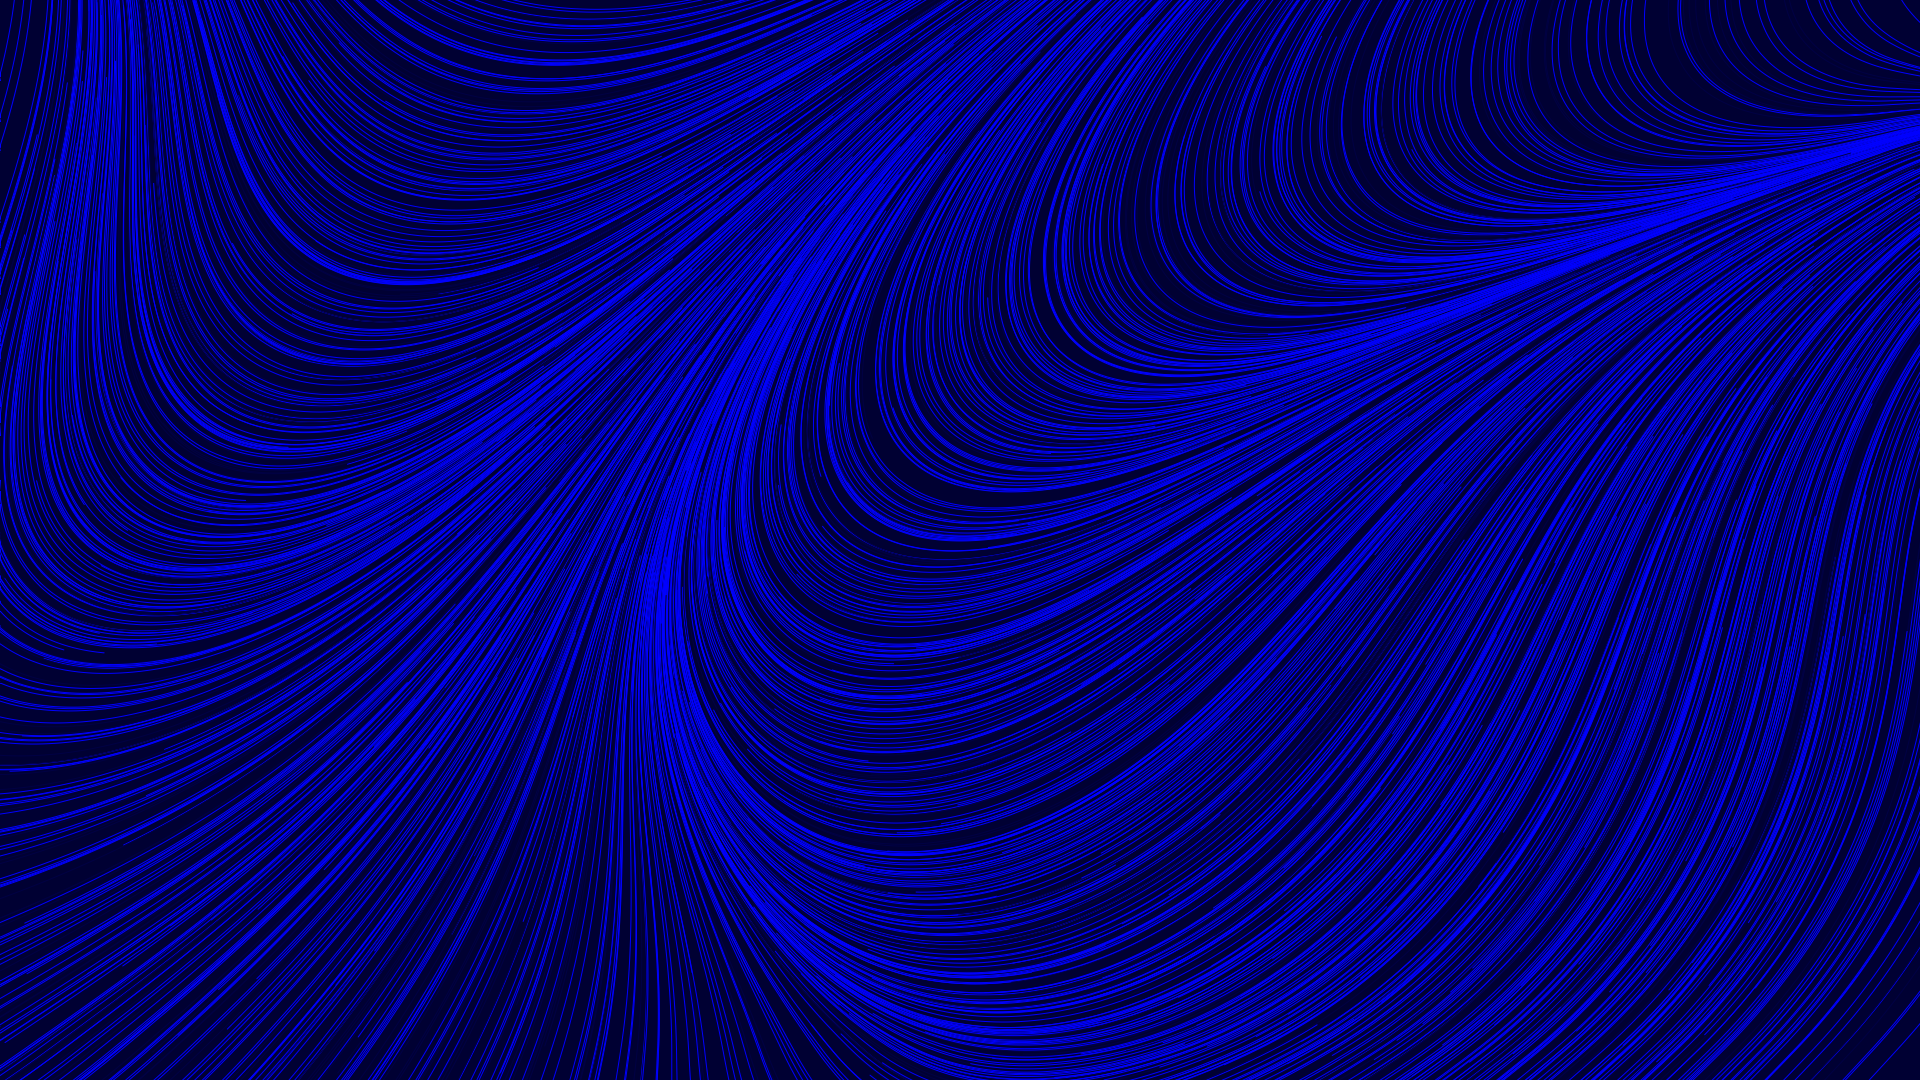
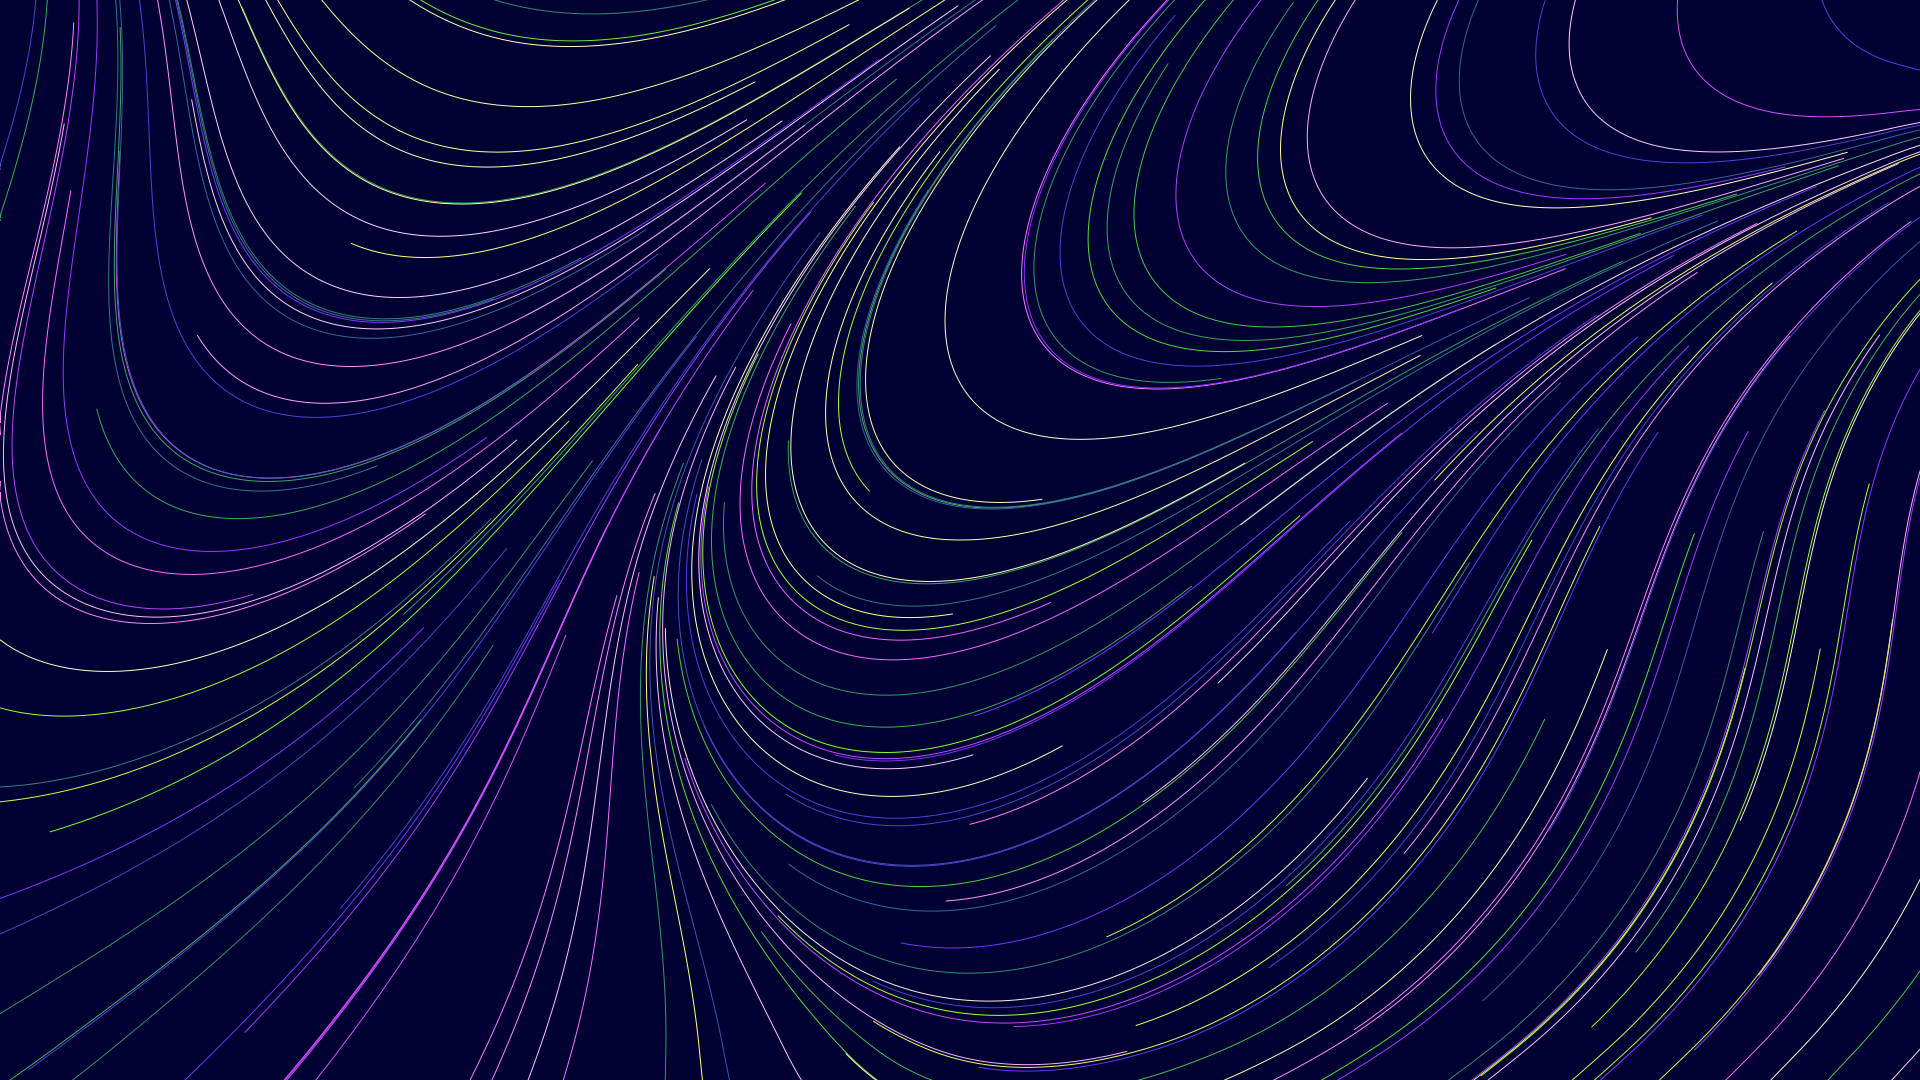
Add some coloring

diff --git a/core/renderer.go b/core/renderer.go
@@ -3,6 +3,7 @@ package core
 import (
 	"math"
 
+	"github.com/emilwidlund/esmerelda/vectors"
 	"github.com/fogleman/gg"
 	"github.com/fogleman/poissondisc"
 )
@@ -23,8 +24,6 @@ func Draw(field *VectorField) *gg.Context {
 }
 
 func DrawArrows(c *gg.Context, field *VectorField) {
-	c.SetHexColor("#0000ff")
-
 	for y, row := range field.vectors {
 		for x, vector := range row {
 			halfCell := field.cellSize / 2
@@ -35,6 +34,9 @@ func DrawArrows(c *gg.Context, field *VectorField) {
 }
 
 func DrawArrow(c *gg.Context, x int, y int, angle float64, length int) {
+	r, g, b := GetColorByAngle(angle)
+	c.SetRGB(r, g, b)
+
 	c.Push()
 
 	// Arrow
@@ -81,9 +83,25 @@ func DrawCurve(c *gg.Context, field *VectorField, x float64, y float64) {
 	c.Push()
 
 	for _, v := range NewCurve(field, x, y).path {
+		r, g, b := GetColorByAngle(v.DistanceTo(vectors.NewVector2(x, y)))
+		c.SetRGB(r, g, b)
 		c.LineTo(v.X, v.Y)
 	}
 
 	c.Stroke()
 	c.Pop()
+}
+
+func GetColorByAngle(angle float64) (r float64, g float64, b float64) {
+	ra, ga, ba := math.Cos(angle), math.Cos(angle+20), math.Cos(angle-20)
+
+	return Clamp(Normalize(ra)+.2, 0, 1), Clamp(Normalize(ga)+.2, 0, 1), Clamp(Normalize(ba)+.2, 0, 1)
+}
+
+func Clamp(value float64, min float64, max float64) float64 {
+	return math.Min(math.Max(value, min), max)
+}
+
+func Normalize(value float64) float64 {
+	return (value + 1) * .5
 }

diff --git a/main.go b/main.go
@@ -19,6 +19,22 @@ func noiseFormula() core.Formula {
 }
 
 /*
+func identityFormula() core.Formula {
+	return func(vector *vectors.Vector2) *vectors.Vector2 {
+		return vector
+	}
+}
+
+func noiseFormula() core.Formula {
+	p := perlin.NewPerlin(2, 2, 3, 0)
+
+	return func(vector *vectors.Vector2) *vectors.Vector2 {
+		n := p.Noise2D(vector.X/40, vector.Y/40) * 10
+
+		return vectors.NewVector2(math.Cos(n+10), math.Sin(n))
+	}
+}
+
 func circleFormula() core.Formula {
 	return func(vector *vectors.Vector2) *vectors.Vector2 {
 		return vectors.NewVector2(0, -1).Rotate((vector.Y / 20) * math.Pi)
@@ -38,7 +54,7 @@ func customFormula() core.Formula {
 }*/
 
 func main() {
-	field := core.NewVectorField(1920, 1080, noiseFormula(), 30, 5000, 2, 500, false)
+	field := core.NewVectorField(1920, 1080, noiseFormula(), 30, 500, 1, 1000, false)
 	context := core.Draw(field)
 
 	context.SavePNG("test.png")

diff --git a/vectors/vector2.go b/vectors/vector2.go
@@ -101,7 +101,8 @@ func (vector *Vector2) Magnitude() float64 {
 }
 
 func (a *Vector2) DistanceTo(b *Vector2) float64 {
-	return a.Subtract(b).Magnitude()
+	s := *a
+	return s.Subtract(b).Magnitude()
 }
 
 func (vector *Vector2) Angle() float64 {
